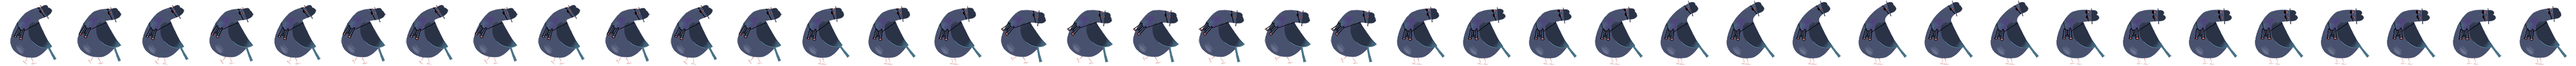
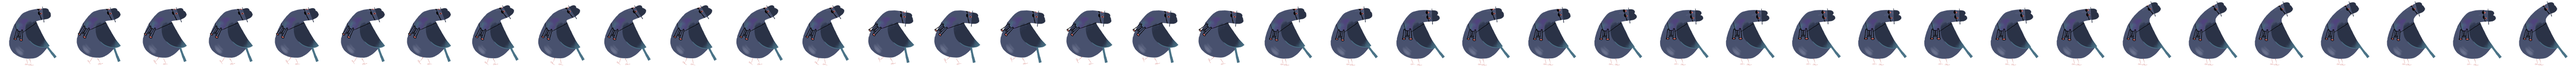
Голубь обречен

diff --git a/assets/styles/game.min.css b/assets/styles/game.min.css
@@ -1,1 +1,1 @@
-#drawingPlot{position:fixed;width:100%;height:100%}@-webkit-keyframes play{from{background-position:5px}to{background-position:-2875px}}@keyframes play{from{background-position:5px}to{background-position:-2875px}}@-webkit-keyframes play-balet{from{background-position:0}to{background-position:-9000px}}@keyframes play-balet{from{background-position:0}to{background-position:-9000px}}@-webkit-keyframes play-pigeon{from{background-position:0}to{background-position:-4680px}}@keyframes play-pigeon{from{background-position:0}to{background-position:-4680px}}@-webkit-keyframes play-horse{from{background-position:0}to{background-position:-3600px}}@keyframes play-horse{from{background-position:0}to{background-position:-3600px}}@-webkit-keyframes play-ball{from{background-position:0}to{background-position:-4440px}}@keyframes play-ball{from{background-position:0}to{background-position:-4440px}}@-webkit-keyframes play-house{from{background-position:0}to{background-position:-3600px}}@keyframes play-house{from{background-position:0}to{background-position:-3600px}}@-webkit-keyframes play-heart{from{background-position:0}to{background-position:-960px}}@keyframes play-heart{from{background-position:0}to{background-position:-960px}}@-webkit-keyframes play-rat{from{background-position:0}to{background-position:-2880px}}@keyframes play-rat{from{background-position:0}to{background-position:-2880px}}@-webkit-keyframes play-pizza{from{background-position:0}to{background-position:-6600px}}@keyframes play-pizza{from{background-position:0}to{background-position:-6600px}}@-webkit-keyframes play-fox{from{background-position:0}to{background-position:-4440px}}@keyframes play-fox{from{background-position:0}to{background-position:-4440px}}@-webkit-keyframes play-nik{from{background-position:0}to{background-position:-960px}}@keyframes play-nik{from{background-position:0}to{background-position:-960px}}@-webkit-keyframes play-cat{from{background-position:0}to{background-position:-720px}}@keyframes play-cat{from{background-position:0}to{background-position:-720px}}@keyframes play-flower{from{background-position:0}to{background-position:-1801px}}.obstacle{position:fixed;border-radius:50%;pointer-events:none}.ball{pointer-events:all;position:fixed;background-repeat:no-repeat}.ball .bounds{border-radius:50%;width:100%;height:100%;z-index:-1;box-sizing:border-box;position:absolute}.ball.dragged{z-index:9999}.ball.selected{z-index:9998;-webkit-transition:0.6s ease-in-out;transition:0.6s ease-in-out}.ball.selected.dragged{-webkit-transition:none;transition:none}.ball.selected .bounds{border:none}.ball.pinkbird{background-image:url("../images/mascots/pinkbird_120x120.png");-webkit-animation:play 0.8s steps(24) infinite;animation:play 0.8s steps(24) infinite}.ball.balet{background-image:url("../images/mascots/balet_120x120.png");-webkit-animation:play-balet 2s steps(50) infinite;animation:play-balet 2s steps(50) infinite}.ball.pigeon{background-image:url("../images/mascots/pigeon_120x120.png");-webkit-animation:play-pigeon 10s steps(39) infinite;animation:play-pigeon 10s steps(39) infinite}.ball.horse{background-image:url("../images/mascots/horse_120x120.png");-webkit-animation:play-horse 1.2s steps(30) infinite;animation:play-horse 1.2s steps(30) infinite}.ball.livingBall{background-image:url("../images/mascots/livingBall_120x120.png");-webkit-animation:play-ball 1s steps(37) infinite;animation:play-ball 1s steps(37) infinite}.ball.house{background-image:url("../images/mascots/house_120x120.png");-webkit-animation:play-house 1s steps(30) infinite;animation:play-house 1s steps(30) infinite}.ball.heart{background-image:url("../images/mascots/heart_120x120.png");-webkit-animation:play-heart 1s steps(8) infinite;animation:play-heart 1s steps(8) infinite}.ball.rat{background-image:url("../images/mascots/rat_120x120.png");-webkit-animation:play-rat 1s steps(24) infinite;animation:play-rat 1s steps(24) infinite}.ball.pizza{background-image:url("../images/mascots/pizza_120x120.png");-webkit-animation:play-pizza 2s steps(55) infinite;animation:play-pizza 2s steps(55) infinite}.ball.fox{background-image:url("../images/mascots/fox_120x120.png");-webkit-animation:play-fox 2s steps(37) infinite;animation:play-fox 2s steps(37) infinite}.ball.nik{background-image:url("../images/mascots/nik_120x120.png");-webkit-animation:play-nik 2s steps(8) infinite;animation:play-nik 2s steps(8) infinite}.ball.cat{background-image:url("../images/mascots/cat_120x120.png");-webkit-animation:play-cat 2s steps(6) infinite;animation:play-cat 2s steps(6) infinite}.ball.flower{background-image:url("../images/mascots/flower_120x120.png");-webkit-animation:play-flower 2s steps(15) infinite;animation:play-flower 2s steps(15) infinite}#mouseSpeed{position:fixed;left:50%;top:50%;margin-left:-150px;margin-top:-150px}
+#drawingPlot{position:fixed;width:100%;height:100%}@-webkit-keyframes play{from{background-position:5px}to{background-position:-2875px}}@keyframes play{from{background-position:5px}to{background-position:-2875px}}@-webkit-keyframes play-balet{from{background-position:0}to{background-position:-9000px}}@keyframes play-balet{from{background-position:0}to{background-position:-9000px}}@-webkit-keyframes play-pigeon{from{background-position:0}to{background-position:-4680px}}@keyframes play-pigeon{from{background-position:0}to{background-position:-4680px}}@-webkit-keyframes play-horse{from{background-position:0}to{background-position:-3600px}}@keyframes play-horse{from{background-position:0}to{background-position:-3600px}}@-webkit-keyframes play-ball{from{background-position:0}to{background-position:-4440px}}@keyframes play-ball{from{background-position:0}to{background-position:-4440px}}@-webkit-keyframes play-house{from{background-position:0}to{background-position:-3600px}}@keyframes play-house{from{background-position:0}to{background-position:-3600px}}@-webkit-keyframes play-heart{from{background-position:0}to{background-position:-960px}}@keyframes play-heart{from{background-position:0}to{background-position:-960px}}@-webkit-keyframes play-rat{from{background-position:0}to{background-position:-2880px}}@keyframes play-rat{from{background-position:0}to{background-position:-2880px}}@-webkit-keyframes play-pizza{from{background-position:0}to{background-position:-6600px}}@keyframes play-pizza{from{background-position:0}to{background-position:-6600px}}@-webkit-keyframes play-fox{from{background-position:0}to{background-position:-4440px}}@keyframes play-fox{from{background-position:0}to{background-position:-4440px}}@-webkit-keyframes play-nik{from{background-position:0}to{background-position:-960px}}@keyframes play-nik{from{background-position:0}to{background-position:-960px}}@-webkit-keyframes play-cat{from{background-position:0}to{background-position:-720px}}@keyframes play-cat{from{background-position:0}to{background-position:-720px}}@keyframes play-flower{from{background-position:0}to{background-position:-1801px}}.obstacle{position:fixed;border-radius:50%;pointer-events:none}.ball{pointer-events:all;position:fixed;background-repeat:no-repeat}.ball .bounds{border-radius:50%;width:100%;height:100%;z-index:-1;box-sizing:border-box;position:absolute}.ball.dragged{z-index:9999}.ball.selected{z-index:9998;-webkit-transition:0.6s ease-in-out;transition:0.6s ease-in-out}.ball.selected.dragged{-webkit-transition:none;transition:none}.ball.selected .bounds{border:none}.ball.pinkbird{background-image:url("../images/mascots/pinkbird_120x120.png");-webkit-animation:play 0.8s steps(24) infinite;animation:play 0.8s steps(24) infinite}.ball.balet{background-image:url("../images/mascots/balet_120x120.png");-webkit-animation:play-balet 2s steps(50) infinite;animation:play-balet 2s steps(50) infinite}.ball.pigeon{background-image:url("../images/mascots/pigeon_120x120.png");-webkit-animation:play-pigeon 3s steps(39) infinite;animation:play-pigeon 3s steps(39) infinite}.ball.horse{background-image:url("../images/mascots/horse_120x120.png");-webkit-animation:play-horse 1.2s steps(30) infinite;animation:play-horse 1.2s steps(30) infinite}.ball.livingBall{background-image:url("../images/mascots/livingBall_120x120.png");-webkit-animation:play-ball 1s steps(37) infinite;animation:play-ball 1s steps(37) infinite}.ball.house{background-image:url("../images/mascots/house_120x120.png");-webkit-animation:play-house 1s steps(30) infinite;animation:play-house 1s steps(30) infinite}.ball.heart{background-image:url("../images/mascots/heart_120x120.png");-webkit-animation:play-heart 1s steps(8) infinite;animation:play-heart 1s steps(8) infinite}.ball.rat{background-image:url("../images/mascots/rat_120x120.png");-webkit-animation:play-rat 1s steps(24) infinite;animation:play-rat 1s steps(24) infinite}.ball.pizza{background-image:url("../images/mascots/pizza_120x120.png");-webkit-animation:play-pizza 2s steps(55) infinite;animation:play-pizza 2s steps(55) infinite}.ball.fox{background-image:url("../images/mascots/fox_120x120.png");-webkit-animation:play-fox 2s steps(37) infinite;animation:play-fox 2s steps(37) infinite}.ball.nik{background-image:url("../images/mascots/nik_120x120.png");-webkit-animation:play-nik 2s steps(8) infinite;animation:play-nik 2s steps(8) infinite}.ball.cat{background-image:url("../images/mascots/cat_120x120.png");-webkit-animation:play-cat 2s steps(6) infinite;animation:play-cat 2s steps(6) infinite}.ball.flower{background-image:url("../images/mascots/flower_120x120.png");-webkit-animation:play-flower 2s steps(15) infinite;animation:play-flower 2s steps(15) infinite}#mouseSpeed{position:fixed;left:50%;top:50%;margin-left:-150px;margin-top:-150px}

diff --git a/assets/styles/game.scss b/assets/styles/game.scss
@@ -308,8 +308,8 @@
 
 .ball.pigeon {
     background-image: url("../images/mascots/pigeon_120x120.png");
-    -webkit-animation: play-pigeon 10s steps(39) infinite;
-            animation: play-pigeon 10s steps(39) infinite;
+    -webkit-animation: play-pigeon 3s steps(39) infinite;
+            animation: play-pigeon 3s steps(39) infinite;
 }
 
 .ball.horse {
